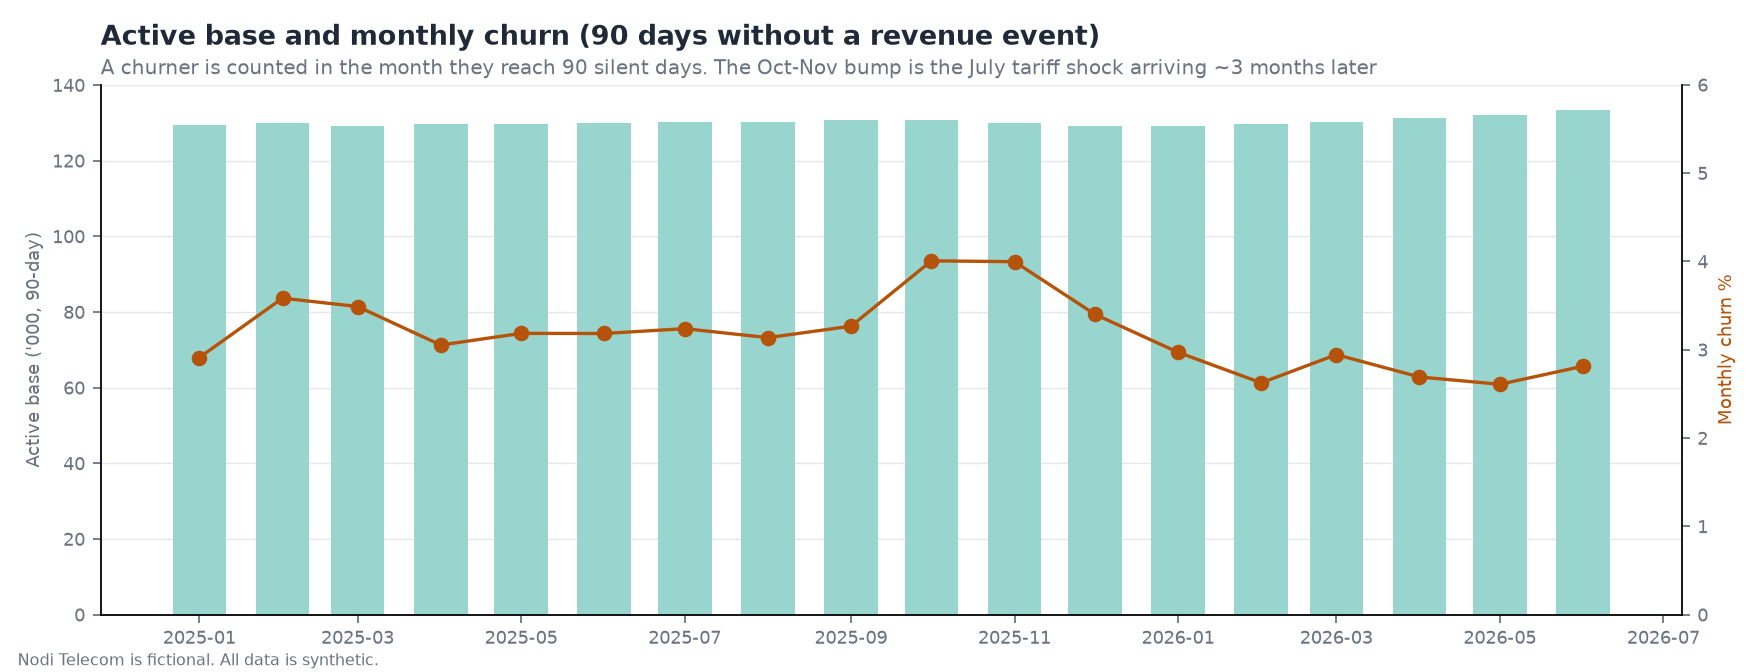
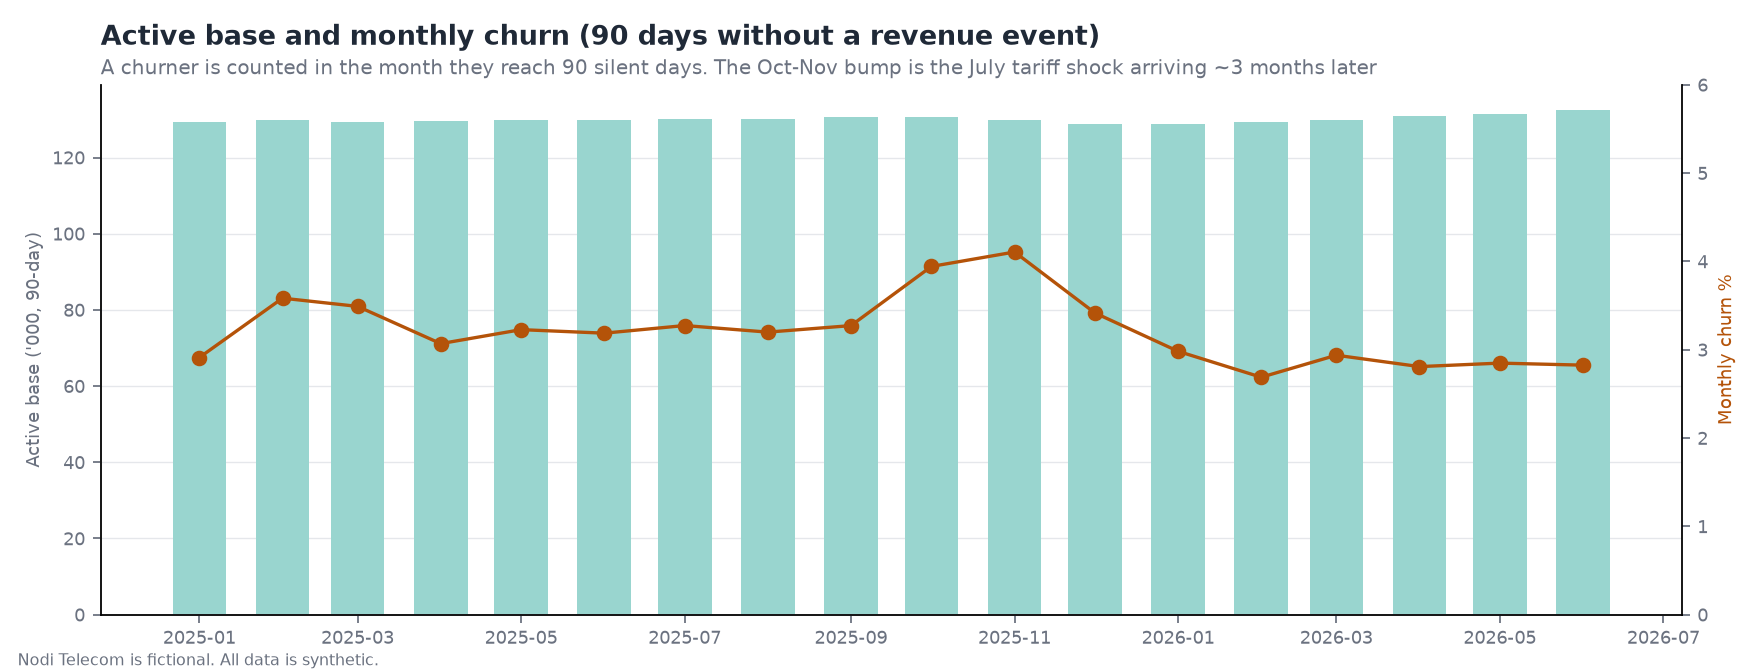
Phase 1: plant a "harder world" response mix (business call B1.1)
- New config block truth_world: effect_scale=0.6, contact_fatigue_share=0.09
- Full 200k rebuild: ~4.7% persuadables and ~10.5% sleeping dogs per offer
  on average (was ~11% / ~8%); ARPU and churn calibration unchanged
- DECISIONS.md records the options considered and the trade-off accepted

diff --git a/src/nodi/simulate/population.py b/src/nodi/simulate/population.py
@@ -124,7 +124,7 @@ def build_population(n: int, cfg: dict, cal: Calendar, rng: np.random.Generator)
     w_base = np.where(has_other, 1 - 0.4 * competitor_pull * rng.uniform(0.5, 1.0, n), 1.0)
 
     nq = np.vectorize(NETWORK_QUALITY.get)(division) + 0.2 * urban + rng.normal(0, 0.25, n)
-    contact_fatigue = np.where(rng.random(n) < 0.06, rng.uniform(0.6, 1.0, n), rng.uniform(0, 0.05, n))
+    contact_fatigue = np.where(rng.random(n) < cfg["truth_world"]["contact_fatigue_share"], rng.uniform(0.6, 1.0, n), rng.uniform(0, 0.05, n))
     log_h0 = np.log(0.0008) + rng.normal(0, 0.8, n)
 
     # ---- behaviour parameters

diff --git a/src/nodi/simulate/run.py b/src/nodi/simulate/run.py
@@ -143,7 +143,9 @@ def simulate(cfg: dict) -> dict:
     rng_camp = np.random.default_rng([seed, 3])
 
     subscribers, traits = build_population(n, cfg, cal, rng_pop)
-    eng = Engine(traits, cal)
+    from .engine import PARAMS
+    scale = cfg["truth_world"]["effect_scale"]
+    eng = Engine(traits, cal, params={"kappa": {k: v * scale for k, v in PARAMS["kappa"].items()}})
     camp = Campaigns(eng, cal, cfg, rng_camp)
     _log(f"population built: {n:,} subscribers")
 

diff --git a/reports/phase1/summary.md b/reports/phase1/summary.md
@@ -3,63 +3,63 @@
 ## Headline numbers
 
 - **subscribers_total**: 200,000
-- **active_base_end**: 133,403
-- **gross_arpu_bdt_month**: 185.168
-- **net_arpu_bdt_month**: 133.321
-- **recharges_per_recharger_month**: 4.547
+- **active_base_end**: 132,473
+- **gross_arpu_bdt_month**: 185.076
+- **net_arpu_bdt_month**: 133.255
+- **recharges_per_recharger_month**: 4.552
 - **median_recharge_bdt**: 30.000
 - **share_recharges_le_50**: 0.812
-- **monthly_churn_rate**: 0.031
+- **monthly_churn_rate**: 0.032
 - **smartphone_share**: 0.555
-- **data_gb_per_smartphone_user_month**: 3.948
-- **churned_spells_reactivated**: 0.116
+- **data_gb_per_smartphone_user_month**: 3.961
+- **churned_spells_reactivated**: 0.113
 - **mfs_share_of_recharges**: 0.371
-- **truth_alive_at_end**: 127,624
-- **truth_median_clv_margin_12m**: 1,025.041
-- **truth_p90_clv_margin_12m**: 2,119.228
-- **truth_mean_p_churn_90d**: 0.088
+- **truth_alive_at_end**: 126,623
+- **truth_median_clv_margin_12m**: 1,024.894
+- **truth_p90_clv_margin_12m**: 2,120.143
+- **truth_mean_p_churn_90d**: 0.089
 
 ## Monthly KPIs (provisional SQL; governed versions arrive in Phase 2)
 
      month  active_base  gross_recharge  n_recharges  recharging_subs  churners  gross_arpu  recharges_per_recharger  churn_rate
 2025-01-01       129397      23147959.0       514947           115597      3768  178.891002                 4.454674    0.029120
 2025-02-01       129970      21218872.0       470953           114393      4658  163.259768                 4.116974    0.035839
-2025-03-01       129221      26169691.0       581707           117621      4509  202.518871                 4.945605    0.034894
-2025-04-01       129682      23109182.0       512470           116255      3960  178.198840                 4.408154    0.030536
-2025-05-01       129789      23765090.0       527848           116869      4134  183.105579                 4.516578    0.031852
-2025-06-01       129996      24046948.0       533938           117258      4139  184.982215                 4.553532    0.031839
-2025-07-01       130148      24025225.0       532166           117166      4215  184.599264                 4.541983    0.032386
-2025-08-01       130289      23721355.0       526442           116632      4087  182.067212                 4.513701    0.031369
-2025-09-01       130723      23048115.0       510459           115303      4270  176.312623                 4.427109    0.032664
-2025-10-01       130856      23795452.0       527000           115804      5243  181.844562                 4.550793    0.040067
-2025-11-01       130023      23357600.0       517334           115987      5197  179.642063                 4.460276    0.039970
-2025-12-01       129121      24155322.0       535373           117038      4391  187.075085                 4.574352    0.034007
-2026-01-01       129108      24578288.0       546271           117511      3835  190.369985                 4.648680    0.029704
-2026-02-01       129667      22245352.0       492473           116907      3404  171.557544                 4.212519    0.026252
-2026-03-01       130273      27437196.0       608282           120381      3836  210.613066                 5.052973    0.029446
-2026-04-01       131410      24523215.0       541915           119656      3537  186.616049                 4.528941    0.026916
-2026-05-01       132137      25925866.0       573648           121211      3447  196.204439                 4.732640    0.026087
-2026-06-01       133403      24590546.0       542388           121046      3753  184.332781                 4.480842    0.028133
+2025-03-01       129221      26172211.0       581735           117599      4511  202.538372                 4.946768    0.034909
+2025-04-01       129678      23108339.0       513954           116289      3980  178.197836                 4.419627    0.030691
+2025-05-01       129793      23717262.0       527353           116626      4189  182.731442                 4.521745    0.032274
+2025-06-01       129942      24089669.0       534714           117087      4142  185.387858                 4.566809    0.031876
+2025-07-01       130149      23949925.0       532126           117172      4261  184.019278                 4.541409    0.032739
+2025-08-01       130241      23683581.0       525551           116640      4167  181.844281                 4.505753    0.031995
+2025-09-01       130579      22977479.0       509483           115216      4274  175.966112                 4.421981    0.032731
+2025-10-01       130683      23771037.0       526808           115495      5153  181.898464                 4.561306    0.039431
+2025-11-01       129933      23274523.0       515976           115759      5336  179.127112                 4.457329    0.041067
+2025-12-01       128889      24120558.0       534107           116596      4403  187.142099                 4.580835    0.034161
+2026-01-01       128868      24685281.0       545323           117265      3843  191.554777                 4.650348    0.029821
+2026-02-01       129398      22118455.0       490820           116236      3479  170.933515                 4.222616    0.026886
+2026-03-01       129855      27450123.0       605909           119459      3815  211.390574                 5.072108    0.029379
+2026-04-01       130973      24405069.0       539648           118947      3679  186.336642                 4.536878    0.028090
+2026-05-01       131543      25725733.0       570015           120386      3747  195.569000                 4.734894    0.028485
+2026-06-01       132473      24381152.0       538957           120219      3743  184.046198                 4.483127    0.028255
 
 ## Offer exposures
 
 campaign_type          offer_id     n   redeem
-  bau_winback        bonus_data 29468 0.427311
-  bau_winback   bundle_discount 25543 0.392475
-  bau_winback recharge_cashback 88532 0.484604
-  bau_winback     tenure_reward  6457 0.361933
-    eid_blast        bonus_data 24789 0.433458
-        pilot        bonus_data  8000 0.311375
-        pilot   bundle_discount  8000 0.390000
+  bau_winback        bonus_data 29333 0.425596
+  bau_winback   bundle_discount 25548 0.393690
+  bau_winback recharge_cashback 88652 0.485956
+  bau_winback     tenure_reward  6467 0.358899
+    eid_blast        bonus_data 24754 0.435081
+        pilot        bonus_data  8000 0.303750
+        pilot   bundle_discount  8000 0.384000
         pilot              none  8000 0.000000
-        pilot recharge_cashback  8000 0.494750
-        pilot     tenure_reward  8000 0.256875
+        pilot recharge_cashback  8000 0.491625
+        pilot     tenure_reward  8000 0.253000
 
 ## Planted response groups (share by offer)
 
 response_group     persuadable  sure_thing  low_responder  lost_cause  sleeping_dog
 offer_id                                                                           
-bonus_data                10.9        64.9           11.6         2.5          10.0
-bundle_discount            9.5        68.4           13.4         2.5           6.3
-recharge_cashback         17.7        67.1            8.4         2.5           4.3
-tenure_reward              6.6        65.7           14.5         2.6          10.7
+bonus_data                 5.1        65.3           14.8         2.6          12.3
+bundle_discount            3.2        66.7           18.6         2.6           8.9
+recharge_cashback          7.9        67.2           14.5         2.5           7.9
+tenure_reward              2.7        65.6           16.2         2.6          13.0

diff --git a/DECISIONS.md b/DECISIONS.md
@@ -81,5 +81,18 @@ The 200k build takes about 8 minutes on this machine: 6.3 minutes of simulation,
 **B1.1 Planted response-group mix**
 Persuadable / sure thing / lost cause / sleeping dog per offer. This is the "world" the models will be judged against. Current default is roughly 7–15% persuadable, about 70% sure things, 2% lost causes and 4–10% sleeping dogs. Options are below.
 
+> **Decided 2026-11-17: "Harder world" (you).** You chose this over keeping the original mix or an easier world.
+>
+> **What changed:** `truth_world.effect_scale` = 0.6 (every offer's planted retention effect cut by 40%) and `contact_fatigue_share` from 6% to 9%. On a 10k sweep this gives about 5% persuadables (cashback ~8%, tenure reward ~2%) and about 11% sleeping dogs.
+>
+> **Trade-off you're accepting:**
+> - The gap between smart targeting and a blanket offer gets bigger, which makes for a stronger story.
+> - The uplift models in Phase 5 will be noisier, and validation against the truth will be less clean.
+> - Some offers may not pay back at any budget.
+>
+> **Interview line:** "I deliberately made the world hard: most people don't need an offer, and one in ten is pushed out by one."
+>
+> The sweep options were (effect scale, fatigue share): (0.6, 0.10) → 4.6% / 11.5%; (0.5, 0.10) → 3.4% / 11.0%; (0.45, 0.11) → 2.6% / 11.7%.
+
 **B1.2 Region and handset mix**
 Division shares come from Census 2022. Urban share and handset tiers are assumptions (see ASSUMPTIONS.md). Changing them reshapes segments in Phase 4.

diff --git a/ASSUMPTIONS.md b/ASSUMPTIONS.md
@@ -57,6 +57,7 @@
 | ID | Item | Value | Notes |
 |---|---|---|---|
 | E01 | Offer responsiveness | Bonus data ↔ data affinity; cashback ↔ price sensitivity; tenure reward ↔ long tenure and low engagement; bundle discount ↔ pack affinity | See `engine.true_delta` |
-| E02 | Sleeping dogs | 6% of subscribers have high "contact fatigue": any offer raises their churn hazard | The share is adjustable; this is business call B1.1 |
+| E02 | Sleeping dogs | 9% of subscribers have high "contact fatigue": any offer raises their churn hazard | Business call B1.1, "harder world" (`truth_world.contact_fatigue_share`) |
+| E05 | Effect size | Planted retention effects scaled to 0.6 of the original design | Business call B1.1 (`truth_world.effect_scale`); gives about 5% persuadables per offer |
 | E03 | Lost causes | Subscribers already fading out when treated get no effect; heavy multi-SIM users get weaker effects | |
 | E04 | Response-group labels | Persuadable if uplift ≥ +3pp; sleeping dog if ≤ −0.5pp; sure thing if baseline churn < 8%; lost cause if baseline churn ≥ 50% | `truth_labels` |
